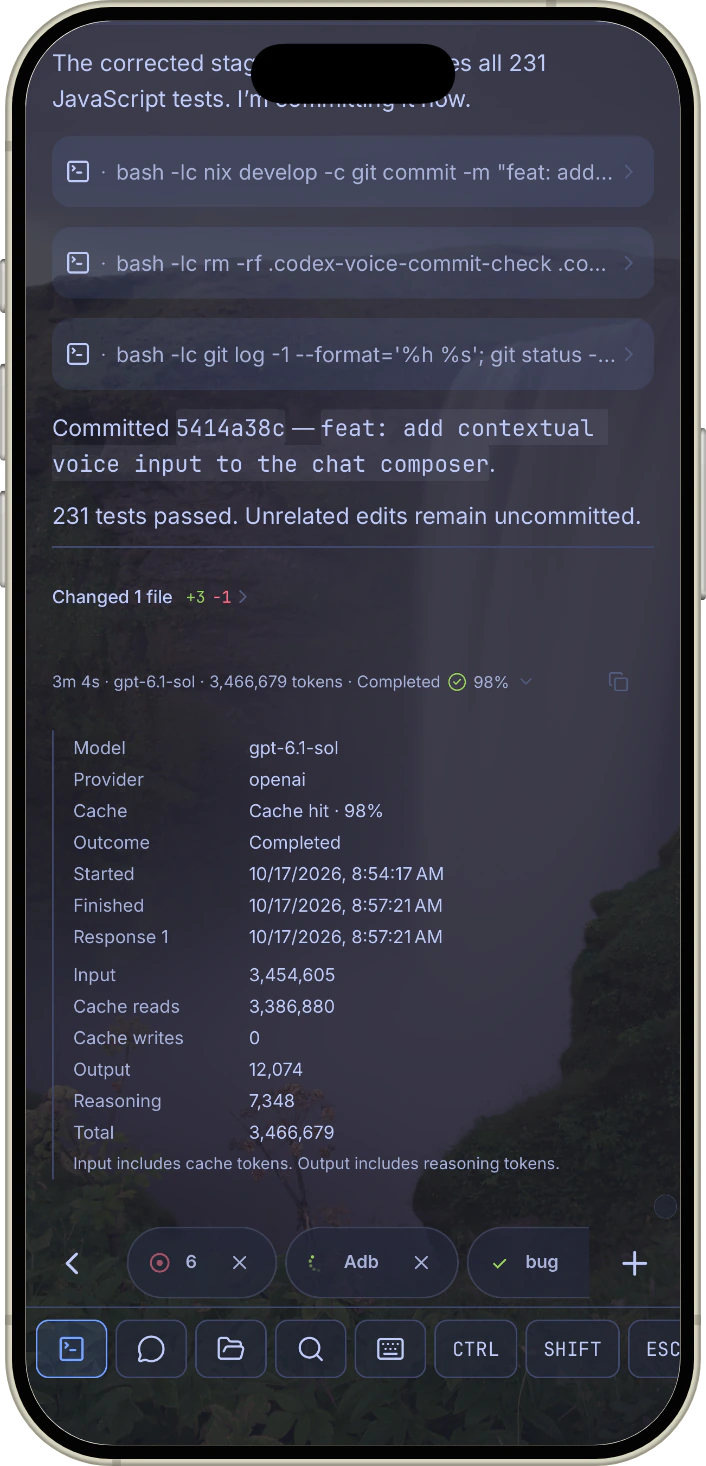
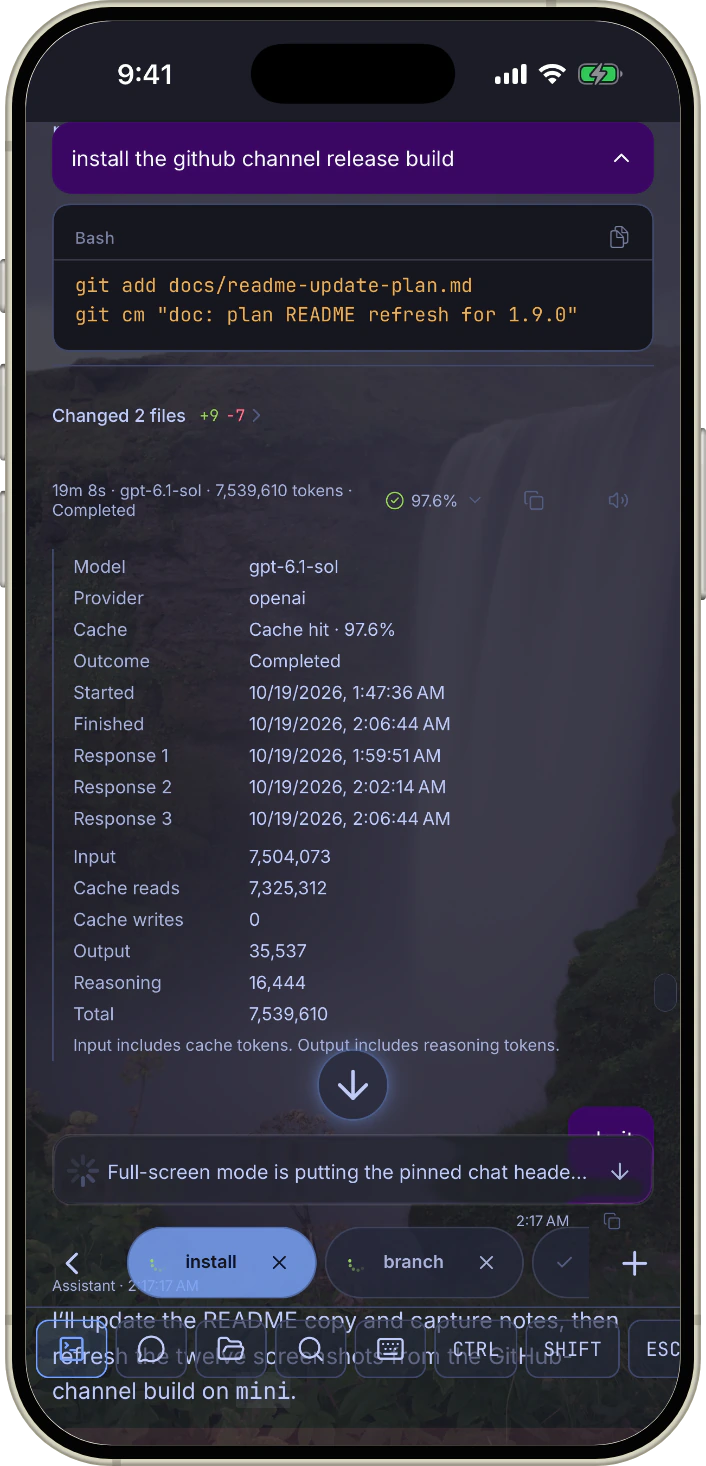
doc: refresh README previews, latency measurements, and host setup

diff --git a/README.md b/README.md
@@ -33,11 +33,11 @@
   <a href="https://youtu.be/dx5s3LmMErE"><strong>Watch the Whip launch video</strong></a>
 </p>
 
-Whip gives [Herdr](https://github.com/herdrdev/herdr) a touch-friendly mobile interface without exposing Herdr itself to the network or requiring changes on the host. It connects to your machine over SSH—directly or through saved jump hosts, ideally over Tailscale—and rebuilds the management experience as native screens. Watch the whole herd, follow Claude Code, Codex, and OpenCode conversations, dictate a prompt, review a Git diff, or attach to a full terminal. Plain SSH hosts work too, with multiple independent shell tabs even without Herdr.
+Whip gives [Herdr](https://github.com/herdrdev/herdr) a touch-friendly mobile interface without exposing Herdr itself to the network. **Whip requires zero extra installation on the Herdr server.** It connects to your machine over SSH—directly or through saved jump hosts, ideally over Tailscale—and rebuilds the management experience as native screens. Watch the whole herd, follow Claude Code, Codex, and OpenCode conversations, dictate a prompt, review a Git diff, or attach to a full terminal. Plain SSH hosts work too, with multiple independent shell tabs even without Herdr.
 
 With **Reverse Control**, a remote Claude Code, Codex or OpenCode agent can also use Whip's browser and phone tools, inspect connected hosts, and coordinate other Herdr agents through the same SSH connections.
 
-**Built for blazing-fast remote work.** Watch a build, check another agent’s reply, then return to the same open terminal. Your connections keep running while you move between tasks. [See it in everyday use](#performance).
+**Measured terminal output display latency:** 31.14 ms median, 59.64 ms p95 on a Pixel 9 Pro (Android release, October 1, 2026). [Measurement details](#performance).
 
 The app separates connection management from daily supervision: **Hosts** manages saved SSH endpoints, saved chats, and browser access; **Herd** brings connected agents into a searchable, scoped queue; **Terminal** keeps pane sessions, SSH shells, and native Chat View within reach; and **More** holds security, notification, appearance, and terminal preferences.
 
@@ -98,48 +98,40 @@ We will not add first-class support for **tmux, Zellij, or Mosh**. This focus le
     <td align="center"><strong>Watch the whole herd</strong><br>Focus a host, switch spaces from the rail, and follow its attention queue.</td>
   </tr>
   <tr>
-    <td align="center"><img src="assets/screenshots/ios/chat-view.webp" alt="Whip native Chat View with a remote agent conversation and tool activity" width="320"></td>
+    <td align="center"><img src="assets/screenshots/ios/chat-details.webp" alt="Whip completed chat turn with its token usage footer and expanded model, timing, and cache details" width="320"></td>
     <td align="center"><img src="assets/screenshots/ios/chat-composer.webp" alt="Whip native chat composer with microphone, attachment, and send controls" width="320"></td>
   </tr>
   <tr>
-    <td align="center"><strong>Read the conversation</strong><br>Follow Claude Code, Codex, and OpenCode in native chat, with rich text, search, diagrams, and tool details.</td>
+    <td align="center"><strong>See what each turn used</strong><br>Inspect the token-usage footer and expand its model, timing, input, output, and cache details.</td>
     <td align="center"><strong>Chat naturally</strong><br>Dictate a draft, paste an image, attach a file, or bring selected text into your next prompt.</td>
   </tr>
   <tr>
     <td align="center"><img src="assets/screenshots/ios/reverse-control.webp" alt="Whip Codex launch sheet with Reverse Control enabled for browser and device tools" width="320"></td>
-    <td align="center"><img src="assets/screenshots/ios/chat-details.webp" alt="Whip completed chat turn with its token usage footer and expanded model, timing, and cache details" width="320"></td>
+    <td align="center"><img src="assets/screenshots/ios/remote-files.webp" alt="Whip remote file browser showing the terminal's working directory over SFTP" width="320"></td>
   </tr>
   <tr>
     <td align="center"><strong>Give agents phone tools</strong><br>Enable Reverse Control when launching an agent so it can use Whip's browser and device tools.</td>
-    <td align="center"><strong>See what each turn used</strong><br>Inspect the token-usage footer and expand its model, timing, input, output, and cache details.</td>
-  </tr>
-  <tr>
-    <td align="center"><img src="assets/screenshots/ios/remote-files.webp" alt="Whip remote file browser showing the terminal's working directory over SFTP" width="320"></td>
-    <td align="center"><img src="assets/screenshots/ios/git-diff.webp" alt="Whip Git diff viewer with highlighted changes, line selection, and context controls" width="320"></td>
-  </tr>
-  <tr>
     <td align="center"><strong>Bring the filesystem with you</strong><br>Browse, transfer, edit, and preview remote files, including large text, Markdown, diagrams, PDF, and media.</td>
+  </tr>
+  <tr>
+    <td align="center"><img src="assets/screenshots/ios/git-diff.webp" alt="Whip Git diff viewer with highlighted changes, line selection, and context controls" width="320"></td>
+    <td align="center"><img src="assets/screenshots/ios/browser.webp" alt="Whip in-app browser displaying a local documentation preview in desktop mode with address, tab, and page controls" width="320"></td>
+  </tr>
+  <tr>
     <td align="center"><strong>Review the changes</strong><br>Read highlighted Git diffs, expand context, and draft questions for the agent from selected lines.</td>
-  </tr>
-  <tr>
-    <td align="center"><img src="assets/screenshots/ios/browser.webp" alt="Whip in-app browser with address, tab, and page controls" width="320"></td>
-    <td align="center"><img src="assets/screenshots/ios/terminal.webp" alt="Whip remote terminal with persistent tabs and mobile input controls" width="320"></td>
-  </tr>
-  <tr>
     <td align="center"><strong>Open the preview</strong><br>Browse public websites or SSH-forwarded local services, keep tabs open, and let agents use Reverse Control.</td>
-    <td align="center"><strong>Work from anywhere</strong><br>Switch between warm Herdr panes or independent SSH shells with controls that adapt to the keyboard.</td>
   </tr>
   <tr>
+    <td align="center"><img src="assets/screenshots/ios/terminal.webp" alt="Whip remote terminal with persistent tabs and mobile input controls" width="320"></td>
     <td align="center"><img src="assets/screenshots/ios/markdown-preview.webp" alt="Whip rendering this project's README with its app artwork, badges, and links" width="320"></td>
-    <td align="center"><img src="assets/screenshots/ios/settings.webp" alt="Whip More screen using glass surfaces over the configured background image" width="320"></td>
   </tr>
   <tr>
+    <td align="center"><strong>Work from anywhere</strong><br>Switch between warm Herdr panes or independent SSH shells with controls that adapt to the keyboard.</td>
     <td align="center"><strong>Read your remote docs</strong><br>Preview the project's README with its images and links directly from the host.</td>
-    <td align="center"><strong>Make Whip yours</strong><br>Use a custom background and glass surfaces, then tune alerts, speech, security, and terminal behavior.</td>
   </tr>
 </table>
 
-Captured from Whip 1.8.6 on an iPhone 17 Pro simulator running iOS 26.5, with a custom background and Rancher glass appearance. See the [capture notes](assets/screenshots/README.md) to refresh them.
+Captured from Whip 1.9.0 (GitHub channel, Release build) on an iPhone 17 Pro simulator running iOS 26.5, with a custom background and glass appearance. See the [capture notes](assets/screenshots/README.md) to refresh them.
 
 ## What you can do
 
@@ -156,9 +148,10 @@ Captured from Whip 1.8.6 on an iPhone 17 Pro simulator running iOS 26.5, with a 
 
 ### Use Chat View
 
-Chat View supports **Claude Code, Codex, and OpenCode (v1 and v2)** panes. Tap the book icon in the terminal controls to replace that terminal with a full-screen, native transcript; tap it again to return to the same warm terminal. Each open terminal remembers its own Terminal or Chat View when you switch between panes.
+Chat View supports **Claude Code, Codex, and OpenCode (v1 and v2)** panes. Tap the book icon in the terminal controls to replace that terminal with a full-screen, native transcript; tap it again to return to the same warm terminal. Each terminal remembers its own Terminal or Chat View across tab switches and app restarts. Offline hosts restore cached Chat when available.
 
-- Read a normalized, OpenCode-style conversation instead of terminal scrollback, including user prompts, Markdown responses, plans, reasoning, live **Thinking** state, token and timing metadata, attachments, and images.
+- Read a normalized, OpenCode-style conversation instead of terminal scrollback, including user prompts, Markdown responses, plans, reasoning, an inline **Working** indicator, token and timing metadata, attachments, and images.
+- Keep the relevant user prompt pinned while reading earlier replies. Tap it to reveal the original message. When you scroll away from live output, a compact activity strip can show the agent's current tool or progress; tap it to return to the latest output and resume following. See [chat interactions](docs/agent-chat-interactions.md) for details.
 - Inspect expandable tool activity without duplicate shell rows. Related read, list, and search operations are grouped; shell commands, output, diagnostics, and changed-file diffs remain available on demand.
 - Render GitHub-flavored Markdown, highlighted code, clickable remote file references, math, Mermaid diagrams, and SVG code blocks on Android and iOS.
 - Search chat and terminal text with inline highlights, inspect per-turn metadata and expandable JSON tool output, and read agent questions and permission notices.
@@ -173,6 +166,7 @@ Chat View supports **Claude Code, Codex, and OpenCode (v1 and v2)** panes. Tap t
 
 - Open the in-app browser from Hosts, or follow a link from a terminal or conversation. Public sites open directly; localhost and private-network services use the selected host's SSH connection.
 - Keep multiple tabs with navigation history. Inactive pages can suspend and restore, and matching terminal links reuse an existing tab.
+- Switch between mobile and desktop browser profiles or choose a custom viewport size. Profile changes reload open pages immediately. Desktop mode uses a wider automatic viewport; custom dimensions take precedence.
 - Download files with the page's login session into the phone's **Downloads** library. Track progress, cancel a transfer, open completed files, and receive completion notifications.
 - Enable Reverse Control to let a supported agent operate browser tabs and phone tools. Ordinary browsing does not require it.
 
@@ -283,11 +277,9 @@ CI also compiles a thin unsigned device app and uploads `whip-ios-unsigned-compi
 
 ## Connect your first host
 
-You need an SSH server on a laptop or server reachable from the mobile device. If Herdr is already installed, confirm the same connection outside Whip first:
-
-```bash
-ssh user@laptop.tailnet.ts.net 'herdr status server --json'
-```
+You need an SSH server on a laptop or server reachable from the mobile device.
+**Whip requires zero extra installation on a host already running Herdr.**
+Enter its SSH details in Whip, or use the optional QR pairing helper below.
 
 ### Pair with a QR code
 
@@ -354,21 +346,18 @@ An unknown server key requires explicit fingerprint approval before Whip stores 
 
 ## Performance
 
-**Quick switches while your agents are busy.** A build is running in
-one terminal while an agent writes a reply in another. Open the agent's Chat
-View, read the reply as it arrives, then return to your build's open terminal.
-Whip keeps the connection running while you move around the app.
+A 20-second capture on a **Pixel 9 Pro**, running an **arm64 Android release**
+on October 1, 2026, recorded 136 terminal updates:
 
-- **Watch work unfold.** Follow build logs, command output, and agent activity as
-  the host sends them.
-- **Pick up where you left off.** Switch between open terminal tabs or back to
-  the Herd queue, then return to the terminal you were using.
-- **Keep reading as replies arrive.** New text and tool activity update the
-  conversation you already have open, without reloading its entire history.
+| Measurement | Median | 95th percentile |
+| --- | ---: | ---: |
+| Terminal output display latency | **31.14 ms** | **59.64 ms** |
 
-Whip keeps terminals connected and reuses loaded conversations so checking on
-another task does not mean starting a new session. For capture results and
-methods, see the [Android performance measurements](docs/android-performance-measurements.md).
+This measures the interval from output reaching the phone to the terminal's
+visible acknowledgement. SSH network round-trip time is separate. These results
+describe the tested build and workload. See the [capture report](docs/android-performance-regression-2026-10-01.md)
+for setup and results, or [Android performance measurements](docs/android-performance-measurements.md)
+for earlier captures and measurement definitions.
 
 ## Architecture
 

diff --git a/docs/readme-update-plan.md b/docs/readme-update-plan.md
@@ -1,0 +1,153 @@
+# README update plan — Whip 1.9.0
+
+Status: README copy and ten iPhone gallery previews refreshed for 1.9.0.
+
+## Baseline and scope
+
+- The last README/gallery refresh is `bff049ef` (October 18, 2026).
+- Its screenshots show Whip 1.8.6 built from `dbfca79d` on the configured
+  iPhone 17 Pro simulator on `mini`, running iOS 26.5.
+- This review targets `88dbfedb`, Whip 1.9.0 (Android version code 232).
+  The installed GitHub-channel arm64 Release simulator app has iOS build number
+  `2`, verified from its built `Info.plist`.
+- There are **25 commits** after the documentation refresh, or **26 commits**
+  after the source commit used for the old screenshots. The extra commit is
+  the documentation refresh itself.
+- Use a ten-screen gallery and the existing iPhone frames. Refresh the
+  feature copy, screenshots, captions, and capture provenance together.
+
+Reproduce the review with:
+
+```sh
+git log --reverse --oneline bff049ef..88dbfedb
+git diff --stat bff049ef..88dbfedb
+```
+
+## Changes that affect the README
+
+| Change | Source commits | Planned documentation change |
+| --- | --- | --- |
+| Pinned prompt context and live activity | `5c9b2c20`, `0c3630d2` | Explain the pinned prompt, inline **Working** indicator, and the contextual activity strip shown while reading older history. Link to the interaction guide. |
+| Persistent Chat/Terminal selection | `c2c50b9c` | Extend the existing per-terminal preference wording to cover app restarts and cached Chat for offline hosts. |
+| Browser desktop mode | `041e957e` | Add that changing the browser profile reloads open pages immediately; desktop mode uses a wider automatic viewport, and custom sizes override it. |
+| Glass surfaces and readable previews | `5cc1f0a6`, `e01d0296`, `2cc88656`, `e1ab2433`, `e901a38f` | Replace captures of the composer, remote file manager, and preview surfaces. Describe the appearance through the screenshots rather than implementation details. |
+| Updated navigation/status icons and thumbnails | `9082d6cc`, `60f4cd59`, `6ea1e883`, `1f3a0058` | Refresh Herd, Hosts, Terminal, and image-bearing chat captures so the gallery matches the current UI. |
+| Launch presentation | `41f2ff91`, `c247358b`, `f104c599` | Verify launch during installation. The static gallery does not need an additional launch image. |
+| Connection/runtime improvements, Android display/packaging, and validation fixes | `37c2774a`, `7f6b9e82`, `f86dec62`, `dcff166a`, `b042b5d4`, `8ac64192` | Check the affected screens for regressions. Show the published terminal latency measurements with their capture date, device, and measurement boundary; these commits do not supply new measurements. |
+| Version | `88dbfedb` | Update the capture version, source commit, and build number after verifying the installed app. |
+
+The behavior descriptions above follow the final source at `88dbfedb`, including
+the later refinements to the original feature commits.
+
+## README copy edits
+
+1. In **Use Chat View**, replace the generic live **Thinking** wording with
+   the current inline **Working** state. Add a concise bullet for the pinned
+   prompt and returning to live output from the activity strip while reading
+   history. The strip appears only when useful context is available and hides
+   near the latest output.
+2. Keep the existing turn-details caption and automatic Voice announcements
+   paragraph.
+3. Update the per-terminal Chat/Terminal paragraph to say the selection survives
+   app restarts. Mention cached offline Chat without promising all history is
+   available offline.
+4. Add one browser bullet for mobile/desktop profiles and custom viewport sizes.
+5. Use **See what each turn used** as the only Chat View preview, paired with
+   the normal composer. Keep the response-details caption focused on turn
+   metadata. Omit the separate pinned-prompt and appearance previews.
+6. Replace the gallery's 1.8.6 capture note with the verified 1.9.0 build details.
+   Link the new interaction text to [the interaction guide](agent-chat-interactions.md).
+7. Replace the generic performance workflow text with the October 1 Pixel 9 Pro
+   measurements: 31.14 ms median and 59.64 ms p95 terminal output display latency.
+   Link the capture report and distinguish display latency from SSH round-trip time.
+
+## Capture plan
+
+Build and update the configured simulator in place from an isolated worktree
+under `/Users/kosumi/repos`. Use `nix develop`, a thin `aarch64-apple-ios-sim`
+Rust bridge, and an arm64 Release simulator app with embedded JavaScript. Use
+the requested **GitHub distribution channel**
+(`WHIP_DISTRIBUTION_CHANNEL=github`) and Metro's single-worker build setting
+(`--max-workers 1`). Preserve the simulator's existing Keychain access group
+and saved app data, as described in [the capture notes](../assets/screenshots/ios/README.md).
+
+The previous capture build used local developer Rancher appearance. Verify the
+appearance available in the GitHub channel before capture, and document its
+actual membership and appearance settings in the refreshed capture notes.
+
+The prepared build worktree is
+`mini:/Users/kosumi/repos/whip-readme-20261019-88dbfedb`. It targets the same
+iPhone 17 Pro simulator, `35AF86B7-DC94-48B9-8215-82C9DE8E08F7`.
+
+Use the existing custom background, glass appearance, simulator dimensions,
+and safe demo content consistently across the ten replacement captures.
+Keep private host details, credentials, and unrelated conversations out of
+new captures.
+
+| Priority | Existing asset | Replacement scene |
+| --- | --- | --- |
+| 1 | `chat-details.webp` | A completed response with its token footer and expanded model/timing/cache details. |
+| 1 | `chat-composer.webp` | The normal composer with an unsent draft, attachment, microphone, and send controls. |
+| 1 | `remote-files.webp` | A populated remote directory showing the current frosted surface and readable file rows. |
+| 1 | `git-diff.webp` | A real tracked-file diff with the current preview opacity and useful highlighted changes. Verify tracked diffs on the saved fish host; the previous capture notes report a failure here. |
+| 1 | `markdown-preview.webp` | The refreshed README rendered from the host, with images and links loaded. Capture this after updating the README copy. |
+| 2 | `hosts.webp` | Saved hosts with live connection state and current status icons. |
+| 2 | `herd.webp` | The same thinker/Whip scope, both rails visible, and current agent icons. |
+| 2 | `terminal.webp` | A useful shell session with the current navigation and keyboard controls. |
+| 2 | `browser.webp` | A loaded local preview in desktop mode with browser controls visible. Verify the profile change immediately reloads open pages. |
+| 2 | `reverse-control.webp` | An unsent supported-agent launch draft with Reverse Control enabled. |
+
+First capture and review the priority 1 screens. Then refresh the remaining
+screens to keep the whole gallery on the same build. For chat, inspect both
+the latest-output and scrolled-history states before selecting the gallery
+image. Verify that search takes precedence over pinned context and the activity
+strip does not cover controls.
+
+Store raw 1206×2622 PNGs in the ignored `.codex-readme-raw/1.9.0/` directory and run:
+
+```sh
+nix develop -c npm run generate:readme-phone-mockups -- --ios .codex-readme-raw/1.9.0
+```
+
+The existing generator produces transparent 706×1466 WebPs. Keep frame
+attribution and licensing in the capture notes.
+
+## Delivery and validation
+
+1. Update `README.md`, the ten gallery assets under `assets/screenshots/ios/`, and
+   `assets/screenshots/ios/README.md`. Change the parent capture notes only if
+   the workflow needs clarification.
+2. Record the exact source commit, version/build, simulator/runtime, appearance,
+   and any capture limitation. Recheck the old fish-host Git issue and remove
+   that caveat only if a tracked-file diff succeeds.
+3. Inspect every framed image for clipping, loading states, overlays, private
+   content, and legibility. Confirm the README's paths, anchors, alt text, and
+   two-column gallery render correctly at narrow and desktop widths.
+4. Run `git diff --check` and review the final diff. Use screenshot inspection
+   and documentation checks for this change; application tests are needed only
+   if resolving a discovered issue requires application code changes.
+
+## Completed refresh
+
+- Installed and launched the GitHub-channel arm64 Release build in place,
+  preserving saved hosts, background, chat data, and Keychain access.
+- Updated the feature copy, ten framed gallery previews, captions, and capture
+  notes. The Chat View preview shows a completed turn's usage and details;
+  pinned context and live activity remain described in the feature copy and
+  interaction guide.
+- Verified ten unique gallery paths, nonempty alt text, local README
+  targets, and transparent 706×1466 WebP output. Checked the rendered gallery at
+  desktop and phone widths. `git diff --check` passes.
+- Tracked-file diffs still fail on the saved fish host. The Git image instead
+  shows the newly added plan's working-tree diff with a selected line. The
+  capture notes retain the limitation for a separate fix.
+- Cleared the unsent composer draft and closed the temporary browser and shell
+  tabs after capture. Restored both saved full-screen settings and the mobile
+  browser profile with its automatic viewport.
+
+Suggested commit:
+
+```sh
+git add README.md assets/screenshots/README.md assets/screenshots/ios docs/readme-update-plan.md
+git cm "doc: refresh README and iPhone previews for 1.9.0"
+```

diff --git a/assets/screenshots/ios/README.md b/assets/screenshots/ios/README.md
@@ -1,8 +1,8 @@
 # iOS README previews
 
-This directory contains screenshots of Whip 1.8.6 captured on the
-previously configured iPhone 17 Pro simulator on `mini`, running iOS 26.5.
-The local ARM64 simulator build uses commit `dbfca79d`. It retains the saved
+The gallery uses screenshots of Whip 1.9.0 (iOS build 2) captured on the
+configured iPhone 17 Pro simulator on `mini`, running iOS 26.5. The GitHub-channel
+arm64 Release simulator build uses commit `88dbfedb`. It retains the saved
 background image, glass mode, and developer Rancher appearance. These are actual
 app screens inside iPhone mockups, encoded as transparent 706×1466 WebP images.
 The iPhone frame comes from `@sneas/telephone`; its screen opening is fitted to
@@ -12,14 +12,24 @@ Dynamic Island is retained, and the frame's synthetic status UI is removed.
 The Herd capture focuses on `thinker` and its Whip space so both rails are
 visible. The Markdown preview opens the repository's root `README.md`.
 `reverse-control.webp` shows an unsent Codex launch draft with Reverse Control
-enabled. `chat-details.webp` shows a completed turn's token footer and details.
+enabled. `chat-details.webp` is the gallery's Chat View preview and shows a
+completed turn's token footer and details. The normal composer contains an
+unsent README-review draft, cleared after capture.
 
-The browser preview shows the repository's Reverse Control documentation served
-locally on `mini` at `http://127.0.0.1:8765`.
+The terminal preview shows read-only Git history and the README change summary
+in a temporary shell tab, closed after capture.
+
+The browser preview shows this README served locally on `mini` at
+`http://127.0.0.1:8794`, using Desktop WebKit with the automatic viewport.
 
 Update the app in place with `xcrun simctl install` to retain its hosts, keys,
-background image, and preferences. Use a local development distribution so
-the simulator's saved developer membership setting applies.
+background image, and preferences. Build with
+`WHIP_DISTRIBUTION_CHANNEL=github` and an embedded production JavaScript bundle.
+Use Metro's `--max-workers 1` setting for this Nix/macOS build environment.
+
+For these captures, app and terminal full-screen mode are disabled so the
+status bar and Dynamic Island do not cover navigation or pinned chat context.
+Restore the simulator's saved full-screen preferences after capture.
 
 The configured simulator's existing Keychain access group is
 `52863FPC7A.io.github.kaminarios.whip`. Keep that group in the simulator
@@ -42,11 +52,11 @@ xcrun simctl io 35AF86B7-DC94-48B9-8215-82C9DE8E08F7 \
   screenshot build/readme/screenshots/hosts.png
 ```
 
-Copy the raw 1206×2622 PNGs to `.codex-readme-raw/` in the local checkout, then
+Copy the raw 1206×2622 PNGs to `.codex-readme-raw/1.9.0/` in the local checkout, then
 run the shared mockup generator with its iPhone preset:
 
 ```sh
-nix develop -c npm run generate:readme-phone-mockups -- --ios .codex-readme-raw
+nix develop -c npm run generate:readme-phone-mockups -- --ios .codex-readme-raw/1.9.0
 ```
 
 The iPhone preset preserves the raw PNGs outside version control. To regenerate
@@ -54,6 +64,7 @@ one image, append its base name, for example `herd`. Update the gallery captions
 and build information when replacing the previews. Frame attribution and the
 MIT license are in [the parent capture notes](../README.md).
 
-During this refresh, tracked-file diffs on the host with a `fish` login shell
-returned `HostRuntimeError.GitFailure`. The Git preview uses this newly added
-capture-notes file; the tracked-file error needs separate investigation.
+Tracked-file diffs on the host with a `fish` login shell still return
+`HostRuntimeError.GitFailure` in this build. The Git preview shows the new
+`docs/readme-update-plan.md` working-tree diff with a line selected. The
+tracked-file error needs separate investigation.

diff --git a/assets/screenshots/README.md b/assets/screenshots/README.md
@@ -1,7 +1,7 @@
 # README screenshots
 
 The current gallery uses [iOS simulator captures](ios/README.md) inside iPhone
-mockups, including the original glass mode and custom background configured on
+mockups, including the glass appearance and custom background configured on
 `mini`. The older Android mockups remain available below. Both device frames
 come from [`@sneas/telephone`](https://github.com/sneas/telephone) under the MIT
 license reproduced below.
